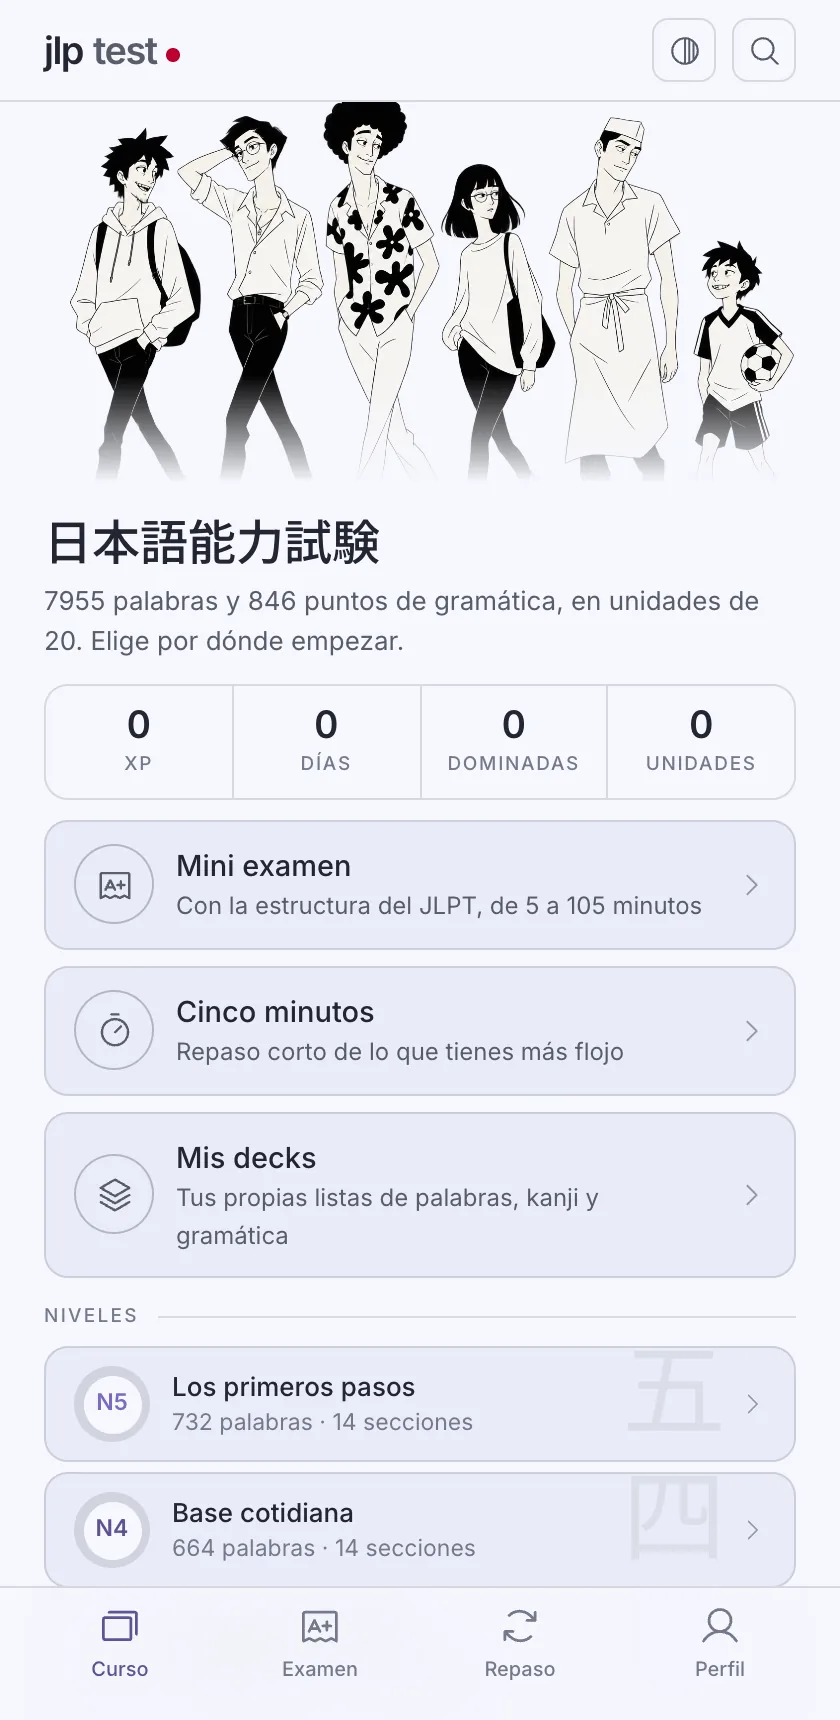
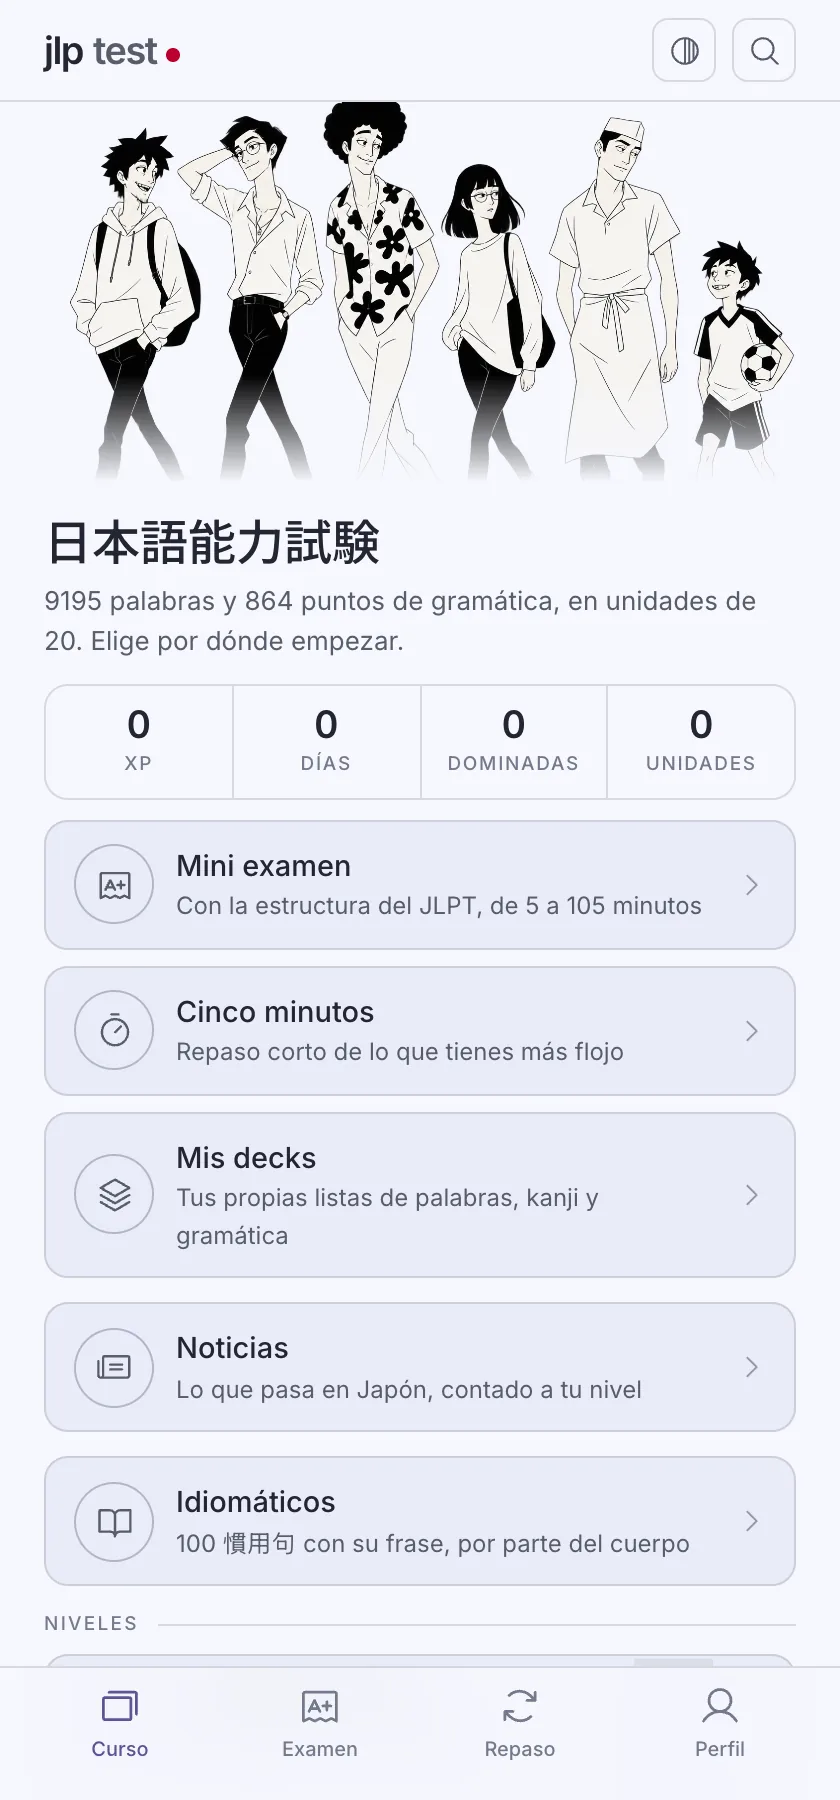
Capturas al día de las cuatro apps, y sus cifras
Daily Challenge con sus puertas nuevas y 35 recreativas; jlptest con
Noticias a tu nivel como quinta pantalla; War Zone con el HUD, el castillo
y las doce armas de ahora; y la carta de la tienda demo de Mercadito. Se
sacaron sin escribir nada en producción (ver DECISIONES).

diff --git a/src/lib/apps.ts b/src/lib/apps.ts
@@ -117,6 +117,9 @@ export const APPS: App[] = [
       { imagen: "jlptest-repaso",
         titulo: { es: "Repaso espaciado", en: "Spaced repetition" },
         texto: { es: "Cada palabra vuelve justo antes de que se te olvide. Si aciertas se aleja, si fallas regresa.", en: "Each word comes back right before you forget it. Get it right and it moves away; miss it and it returns." } },
+      { imagen: "jlptest-noticias",
+        titulo: { es: "Noticias a tu nivel", en: "News at your level" },
+        texto: { es: "Lo que pasa en Japón, contado para tu nivel: con furigana, la gramática marcada y preguntas. Cinco al día, y tres se leen sin cuenta.", en: "What's happening in Japan, told at your level: with furigana, the grammar highlighted and questions. Five a day, and three can be read without an account." } },
     ],
   },
   {
@@ -135,7 +138,7 @@ export const APPS: App[] = [
       en: "One run per person and a top 10 at midnight. Free.",
     },
     datos: [
-      { valor: "24", etiqueta: { es: "minijuegos", en: "mini-games" } },
+      { valor: "35", etiqueta: { es: "recreativas", en: "arcade games" } },
       { valor: "66", etiqueta: { es: "mapas", en: "maps" } },
       { valor: "1", etiqueta: { es: "partida/día", en: "run/day" } },
     ],
@@ -145,7 +148,7 @@ export const APPS: App[] = [
         titulo: { es: "El reto de hoy", en: "Today's challenge" },
         texto: { es: "Un juego distinto cada día, con su mapa y su música. Una partida por persona: la misma para todo el mundo.", en: "A different game every day, with its own map and music. One run per person: the same one for everybody." } },
       { imagen: "dailychallenge-juegos",
-        titulo: { es: "24 minijuegos", en: "24 mini-games" },
+        titulo: { es: "35 recreativas", en: "35 arcade games" },
         texto: { es: "Escritos en JavaScript puro, sin motor ni descargas, con la paleta y el sonido de una consola de 1977.", en: "Written in plain JavaScript, no engine and no downloads, with the palette and sound of a 1977 console." } },
       { imagen: "dailychallenge-party",
         titulo: { es: "Modo party", en: "Party mode" },
@@ -168,11 +171,11 @@ export const APPS: App[] = [
       en: "Turn-based stick-figure battles, Atari 2600 style.",
     },
     descripcion: {
-      es: "Terreno que se rompe, once armas, campaña, retos, partidas pasando el teléfono y en línea. Gratis, con anuncios.",
-      en: "Destructible terrain, eleven weapons, a campaign, challenges, pass-the-phone and online matches. Free, with ads.",
+      es: "Terreno que se rompe, doce armas, campaña, retos, partidas pasando el teléfono y en línea. Gratis, con anuncios.",
+      en: "Destructible terrain, twelve weapons, a campaign, challenges, pass-the-phone and online matches. Free, with ads.",
     },
     datos: [
-      { valor: "11", etiqueta: { es: "armas", en: "weapons" } },
+      { valor: "12", etiqueta: { es: "armas", en: "weapons" } },
       { valor: "8", etiqueta: { es: "mapas", en: "maps" } },
       { valor: "10", etiqueta: { es: "misiones", en: "missions" } },
     ],
@@ -182,8 +185,8 @@ export const APPS: App[] = [
         titulo: { es: "El terreno se rompe", en: "The ground breaks" },
         texto: { es: "Cada granada deja un cráter. El muro que te cubría deja de cubrirte en tres turnos, y un buen tiro puede tirar a alguien al vacío.", en: "Every grenade leaves a crater. The wall that covered you stops covering you in three turns, and a good shot can knock someone off the map." } },
       { imagen: "warzone-isla",
-        titulo: { es: "Once armas", en: "Eleven weapons" },
-        texto: { es: "Granada, rifle y bota sin límite. Bazuca, francotirador, bomba, pico, plataforma y muro con munición contada. El láser y el lanzagranadas se ganan.", en: "Grenade, rifle and boot, unlimited. Bazooka, sniper, bomb, pickaxe, platform and wall with counted ammo. The laser and the grenade launcher are earned." } },
+        titulo: { es: "Doce armas", en: "Twelve weapons" },
+        texto: { es: "Granada, rifle y bota sin límite. Bazuca, francotirador, bomba, pico, plataforma, muro y hara kiri con munición contada. El láser y el lanzagranadas se ganan.", en: "Grenade, rifle and boot, unlimited. Bazooka, sniper, bomb, pickaxe, platform, wall and hara-kiri with counted ammo. The laser and the grenade launcher are earned." } },
       { imagen: "warzone-campana",
         titulo: { es: "Campaña de diez misiones", en: "A ten-mission campaign" },
         texto: { es: "Del tres contra tres en la isla al seis contra seis en la cueva. Cada misión ganada abre un mapa, un arma o un gorro.", en: "From three-on-three on the island to six-on-six in the cave. Each mission won unlocks a map, a weapon or a hat." } },

diff --git a/docs/DECISIONES.md b/docs/DECISIONES.md
@@ -251,3 +251,18 @@ capturas son del canvas del juego (320×180) escaladas ×4 sin suavizar y en
 webp sin pérdida, pesan menos de 3 KB cada una, y se montan en un teléfono
 acostado (`Telefono apaisado`), porque el juego se juega así. El texto de
 «tres apps en producción» se queda: War Zone todavía no lo está.
+
+## 2026-10-13 — Capturas al día
+
+Las del 23-sep se habían quedado atrás: Daily Challenge ya tiene sus puertas
+(reto, práctica, juegos libres, party, War Zone) y 35 recreativas; jlptest
+sumó Noticias a tu nivel, y War Zone cambió de HUD, de castillo y de armas
+(son doce con el hara kiri). Se rehicieron con un Chrome sin ventana a
+420×900 a 2× que contesta en local toda petición que no sea GET: no salió
+ninguna vista, progreso ni partida. Sólo se dejó pasar el alta de la sesión
+anónima de Daily Challenge, porque sin ella la portada enseña un error.
+Mercadito usa la carta pública de la tienda de demostración; las del panel
+(caja, corte, mesas, ventas) siguen siendo las del 23-sep, porque para
+sacarlas hay que entrar a la demo con su PIN y eso lo hace Adrián. Las de War
+Zone salen del propio juego (`window.TH` en un Chrome sin ventana: menú,
+campaña, castillo con su cráter, arsenal, pasa el teléfono y vector).
